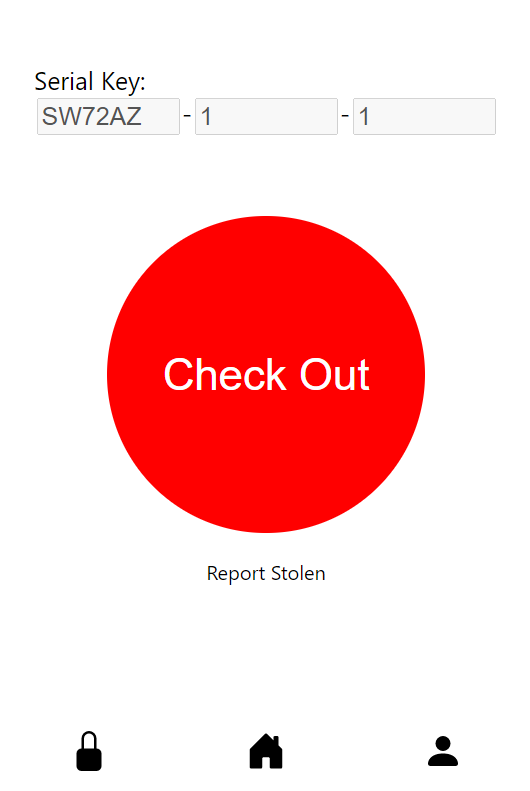
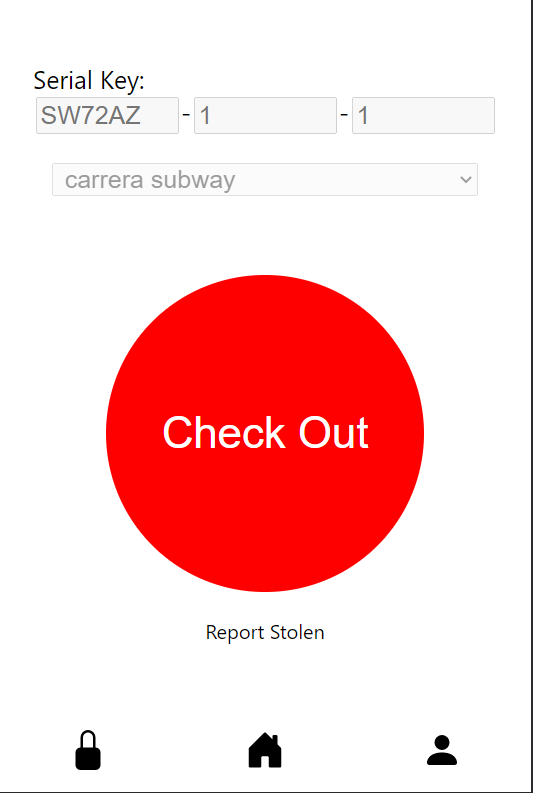
[client] README + clean up code

diff --git a/server/mqtt_index.js b/server/mqtt_index.js
@@ -1,5 +1,12 @@
-const mqtt = require('mqtt');
+// setting up web-app
+const express = require("express");
+const react = express();
+react.use(express.json());
+react.listen(3001, () => console.log("listening at port 3000"));
+// react.use(express.static("/public"));
 
+// MQTT
+const mqtt = require('mqtt');
 const mqtt_options = {
     // Clean session
     clean: true,
@@ -7,11 +14,11 @@ const mqtt_options = {
     // Auth
     clientId: 'js_server',
 }
-
 // On connecting to server
 const client  = mqtt.connect('mqtt://localhost:1883', mqtt_options)
 client.on('connect', function () {
   console.log('JS Server connecting to MQTT Broker')
+  // subscribe to checkinresponse
   client.subscribe('ic_embedded_group_4/+/+/+/checkinresponse', function (err) {
     if (!err) { console.log("JS Server connected to MQTT Broker") }
   })
@@ -25,16 +32,11 @@ let db = new sqlite3.Database("../db/es_cw1.db", sqlite3.OPEN_READWRITE, (err) =
     console.log('JS Server connected to database.');
 });
 
+// hacky way to open HTTP channel while waiting for MQTT message
 var desired_msg = '';
 var resp = null;
 
 client.on('message', function (topic, message) {
-    const subtopics = topic.split('/');
-
-    // check that there are 5 subtopics:
-    // ic_embedded_group_4/lock_postcode/lock_cluster_id/lock_id/TOPIC
-    console.assert(subtopics.length==5, `Incorrect subtopic format, got ${topic}`)
-
     let payload = JSON.parse(message.toString());
 
     if (resp !== null && desired_msg === topic) {
@@ -45,15 +47,14 @@ client.on('message', function (topic, message) {
         desired_msg = '';
         resp = null;
     }
-
 })
 
 const moment = require('moment');
 
 // send check in msg via mqtt when user check in
+// prompt by app.post('/checkin')
 const mqtt_checkin = (lock_postcode, lock_cluster_id, lock_id, username, bike_sn) => {
     const topic = 'ic_embedded_group_4/' + lock_postcode + '/' + lock_cluster_id + '/' + lock_id + '/checkin';
-    console.log(topic);
     const timestamp = moment().format('YYYY-MM-DD HH:mm:ss');
     const message = Buffer.from(JSON.stringify({
         "timestamp": timestamp,
@@ -62,10 +63,11 @@ const mqtt_checkin = (lock_postcode, lock_cluster_id, lock_id, username, bike_sn
     }));
     
     client.publish(topic, message);
-    // console.log("MQTT Check In Message sent: " + message);
+    console.log("MQTT Check In Message sent at: " + topic + "\n"+ message );
 }
 
 // send check out msg via mqtt when user check out
+// prompt by app.post('/checkout')
 const mqtt_checkout = (lock_postcode, lock_cluster_id, lock_id) => {
     const topic = 'ic_embedded_group_4/' + lock_postcode + '/' + lock_cluster_id + '/' + lock_id + '/checkout';
     const timestamp = moment().format('YYYY-MM-DD HH:mm:ss');
@@ -86,29 +88,18 @@ app.listen(5000, () => console.log("[HTTP] listening at port 5000"));
 
 // listen for check in
 app.post('/checkin',(request,response) => {
-    resp = response;
     var tmp = request.body;
     mqtt_checkin(tmp.lock_postcode, tmp.lock_cluster_id, tmp.lock_id, tmp.user, tmp.bike_sn);
+    resp = response;
     desired_msg = "ic_embedded_group_4/" + tmp.lock_postcode + "/" + tmp.lock_cluster_id.toString() + "/" + tmp.lock_id.toString() + "/checkinresponse";
-
   
     // should there be some timeout thing?
-    // response.json({state: state});
+    // response.json({state: true});  
 })
-
-// prompt check out
-// app.post('/usrauthen',(request,response) => {
-//     var tmp = request.body;
-//     // check does the username matches
-//     response.json({
-//         state: state, // state is tmp
-//     });
-// })
 
 // listen for check out
 app.post('/checkout',(request,response) => {
     var tmp = request.body;
-    // serial key should be stored in the server
     mqtt_checkout(tmp.lock_postcode, tmp.lock_cluster_id, tmp.lock_id);
 
     response.json("Checkout Received");
@@ -144,6 +135,16 @@ app.post('/usrinfo',(request,response) => {
         }
         response.json(msg);
     })    
+
+    // for testing
+    // const msg = {
+    //     checked: true,
+    //     postcode: 'SW72AZ',
+    //     cluster: 1,
+    //     id: 1,
+    //     bike_sn: 123
+    // }
+    // response.json(msg);
 })
 
 // return user's bike name + sn

diff --git a/client/src/Components/CheckInOut.js b/client/src/Components/CheckInOut.js
@@ -40,7 +40,6 @@ function CheckInOut({getToken, setReturn}) {
         }).then(response => response.json())
         .then(response => {
             if (response.state) setChecked(true);
-            // TODO: warn unsuccessful
             else {
                 alert("Unsuccessfuly Login \nError: " + response.msg);
             }
@@ -121,28 +120,8 @@ function CheckInOut({getToken, setReturn}) {
         // check if event.target.value meets the serial key format
         setTmpSerialKeyID(event.target.value);
     };
-    
-    // keep checking for udpates to see is user authentication needed
-    // const [auth,setAuth] = useState(false);
-    // const update = async() => {
-    //     const msg = {
-    //         user: usrname
-    //     };
-    //     fetch('http://localhost:5000/usrauthen',{
-    //         method: 'POST',
-    //         headers: {
-    //             'Content-type': 'application/json',
-    //         },
-    //         body: JSON.stringify(msg),
-    //     }).then(response => response.json())
-    //     .then(response => {
-    //         setAuth(response.state);
-    //     })
-    // }
 
     const intial_fetch = () => {
-        // console.log("initial fetch")
-
         const msg = {
             username: usrname
         };
@@ -156,14 +135,13 @@ function CheckInOut({getToken, setReturn}) {
         .then(response => {
             setChecked(response.checked);
             if (response.checked) {
-                console.log(response)
                 setSerialKey({
                     PostCode: response.postcode,
                     Cluster: response.cluster,
                     ID: response.id,
                 });
                 setBicycleSN(response.bike_sn)
-            }
+            } 
         })
 
         fetch('http://localhost:5000/usrbike',{
@@ -179,9 +157,7 @@ function CheckInOut({getToken, setReturn}) {
     }
 
     useEffect(() => {
-        // update();
         intial_fetch();
-        // setInterval(update,1000)
     },[])
 
 
@@ -232,11 +208,12 @@ function CheckInOut({getToken, setReturn}) {
                         paddingLeft: '5px',
                         color: '#707070'
                     }}
-                    defaultValue={bicycleSN}
+                    // defaultValue={bicycleSN}
+                    value={bicycleSN}
                     onChange={ (event) => setBicycleSN(event.target.value) }
                     disabled={checked}
                 >
-                    <option value=''  disabled hidden>Bicycle</option>
+                    <option value='' disabled hidden>Bicycle</option>
                     {bicycle.map((item,index) => {
                         return(
                             <option key={index} value={item.bike_sn}>{item.bike_name}</option>

diff --git a/client/README.md b/client/README.md
@@ -16,31 +16,36 @@ A webpage would be hosted on `http://localhost:3000/`. This is currently still i
 The webpage would show a map of the surrounding of the user's location with markers on bicycle lock clusters. A green pin indicates availability while a red pin indicates that all locks are used. <br/>
 ![image](img/map_markers.PNG)
 <br/>
-Upon clicking onto the pin, details about the lock would be shown, including name, total locks and available locks. <br/>
+Upon clicking onto the pin, details about the lock would be shown, including name, total locks and available locks. Positions of the locks/pins are fetched upon loading the webpage.  <br/>
 ![image](img/map_w_details.PNG)
 <br/>
-
-Positions of the locks/pins are fetched upon loading the webpage (TODO)
+Clicking on the "Check In" button would direct user to the Check In page with pre-filled Postcode and CLuster ID. <br/>
+![image](img/check_in_prefilled.PNG)
+<br/>
 
 ### Check In / Check Out Page
 The check in page has 3 text boxes for user to fill in the Serial Key number (Postcode-Cluster ID-ID) and a button to submit check in request. Upon checking in, information on the Lock Serial Key will be send across HTTP to the server on `http://localhost:5000/checkin` <br/>
 ![image](img/check_in_out.PNG) <br/>
 
-User have to check out the bicycle on the webpage before removing the bike, by the red "Check Out" button. 
+User have to check out the bicycle on the webpage before removing the bike, by the red "Check Out" button. <br/>
 ![image](img/check_out.PNG) <br/>
 
 The state of whether the user has checked into a lock is fetched on load of the page.
 
 <br/>
 
+### Prompt Login Page
+When user trying to access to the Check In and Profile (TBD) Page without login, they would be prompted to login. Clicking onto the "Sign In" button would direct user to the Login Page. <br/>
+![image](img/prompt_login.PNG) <br/>
+
 ### Login Page
 Allow user to login into their account. <br/>
 ![image](img/login.PNG) <br/>
-Upon login, credentials will be sent to the server via HTTP for check. Upon successful login, username would be stored in the session.
+Upon login, credentials will be sent to the server via HTTP for check. Upon successful login, username would be stored in the session. User will then be redirected to the page before being prompted to login.
 <br/>
 
-### Register Page
-Allow users to register into the system by filling in information such as full name, username, email address and passward.
+### Register Page (TBD)
+Allow users to register into the system by filling in information such as full name, username, email address and passward. <br/>
 ![image](img/register.PNG)
 <br/>
 
@@ -58,7 +63,7 @@ The footer is a menu bar that allows user to jump to different page. The lock ic
    - user can add bike serial number
    - register
 5. Add analytics
-6. Check in Page default bike SN
+
 
 ## Change Log
 27-Jan-2022 : initial commit <br/>
@@ -66,3 +71,4 @@ The footer is a menu bar that allows user to jump to different page. The lock ic
 12-Feb-2022 : added check in out + register page. added router. <br/>
 17-Feb-2022 : added HTTP communication with server on check in out page. <br/>
 22-Feb-2022 : updated state machine + added login page with simple login authentication + query string in checkin page + bike serial number. <br/>
+22-Feb-2022 : added checkin comfirmation + state machine done with the server. <br/>
